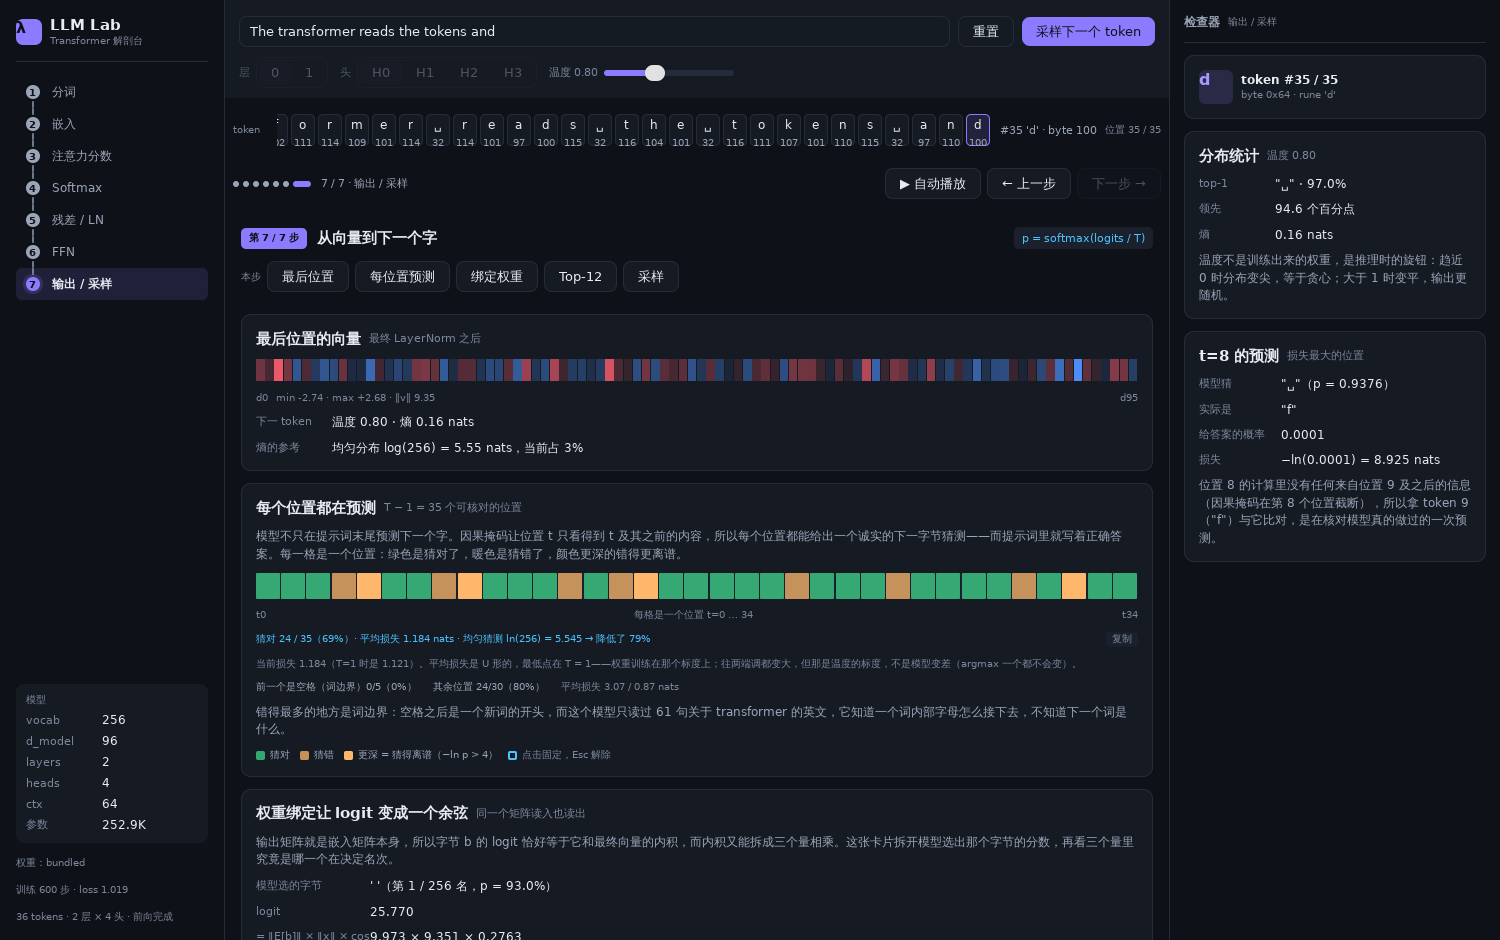
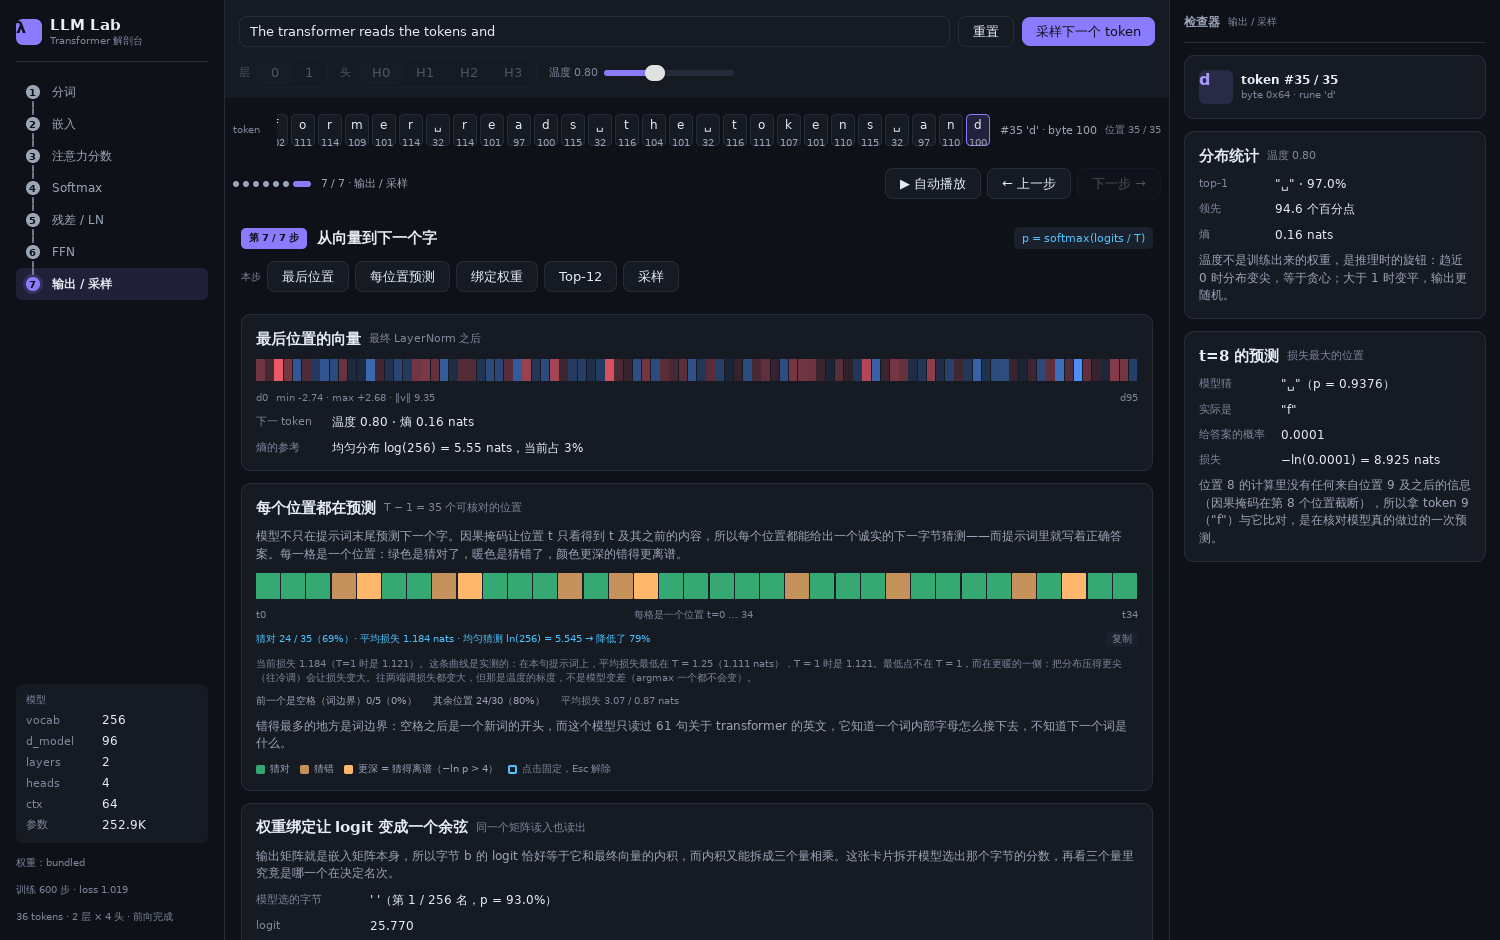
fix(app): measure the loss curve instead of asserting its minimum, and stop printing +Inf
Two defects on the per-position card, both found by checking one sentence against the data.

1. The card stated in fixed prose that the mean loss is U-shaped with its minimum at T=1,
   "the value the weights were trained at". That was measured once on the default prompt in
   the first round and then shown for every prompt. Measured across four prompts it is false
   for most of them: "attention is all you need" bottoms out at 1.5, "hi" at 2.0, and with a
   denser sample even the default prompt's minimum is 1.25 rather than exactly 1.0.

   The sentence is now built from computeTemperatureCurve, which reports this prompt's
   minimum, the loss there, and the loss at T=1, with wording that follows whether the
   minimum is warmer or colder than 1 — and says so when the slider hits its ceiling before
   the curve turns.

   A first draft of the replacement added "说明真值字节不是模型的首选" as the explanation.
   That is a plausible cause but not something the card measures: it can see the curve bend
   and cannot see why. The sentence was cut back to the measurement.

2. At T=0.1 the true byte's probability can underflow to exactly zero in float32, so -ln(p)
   has no finite value and the card rendered "平均损失 +Inf nats" and "降低了 -Inf%". That
   reads as a fault in the app rather than as a limit of the arithmetic.

   Underflowed positions are now counted and excluded from the mean, and the card says so:
   "N 个位置的真实字节概率下溢到 0，未计入均值". On the long prompt at T=0.1 that is 1 of
[…]

Changed region(s): [[0.1533, 0.6787, 0.7667, 1.0]]

diff --git a/internal/app/workings_test.go b/internal/app/workings_test.go
@@ -3523,3 +3523,147 @@ func TestEmbeddingStructureCardQuotesItsOwnNumbers(t *testing.T) {
 		t.Fatal("a byte is rendered with Go's \\u escaping instead of the app's byte notation")
 	}
 }
+
+// TestTemperatureCurveFindsTheActualMinimum checks that the curve reports the temperature it
+// actually measured rather than assuming T=1.
+//
+// The card used to state in fixed prose that the mean loss is U-shaped with its minimum at
+// T=1. Measured, that is false for most prompts: "attention is all you need" bottoms out at
+// 1.5 and "hi" at 2.0, and even the default prompt's minimum is 1.25 rather than 1.0. So the
+// sentence is now built from this curve, and the curve has to agree with a fresh scan.
+func TestTemperatureCurveFindsTheActualMinimum(t *testing.T) {
+	for _, prompt := range []string{
+		"The transformer reads the tokens and",
+		"attention is all you need",
+		"hi",
+	} {
+		a := newTestApp(t)
+		a.Prompt = prompt
+		a.recompute()
+		if len(a.Trace.Tokens) < 2 {
+			continue
+		}
+		c := computeTemperatureCurve(a.W, a.Trace)
+		if !c.OK {
+			t.Fatalf("prompt %q: no curve", prompt)
+		}
+		if len(c.Samples) != len(c.Losses) || len(c.Samples) == 0 {
+			t.Fatalf("prompt %q: %d samples, %d losses", prompt, len(c.Samples), len(c.Losses))
+		}
+		// Every quoted loss must be the one that temperature produces.
+		for i, temp := range c.Samples {
+			want := computeNextByteSkill(a.W, a.Trace, temp).MeanLoss
+			if math.Abs(c.Losses[i]-want) > 1e-9 {
+				t.Fatalf("prompt %q T=%.2f: curve says %.6f, recomputed %.6f",
+					prompt, temp, c.Losses[i], want)
+			}
+		}
+		// The reported best must be the argmin of the samples.
+		lowest := 0
+		for i, v := range c.Losses {
+			if v < c.Losses[lowest] {
+				lowest = i
+			}
+		}
+		if math.Abs(c.Best-c.Samples[lowest]) > 1e-12 || math.Abs(c.BestLoss-c.Losses[lowest]) > 1e-9 {
+			t.Fatalf("prompt %q: card says best T=%.2f (%.6f), the samples say T=%.2f (%.6f)",
+				prompt, c.Best, c.BestLoss, c.Samples[lowest], c.Losses[lowest])
+		}
+		// And T=1 must be represented, since the sentence quotes it.
+		if math.Abs(c.AtOne-computeNextByteSkill(a.W, a.Trace, 1.0).MeanLoss) > 1e-9 {
+			t.Fatalf("prompt %q: AtOne %.6f disagrees with the T=1 measurement", prompt, c.AtOne)
+		}
+	}
+}
+
+// TestTemperatureMinimumIsNotAlwaysOne records the fact that made the old sentence wrong.
+//
+// This is deliberately a statement about the bundled weights rather than a tautology: if a
+// future checkpoint did put every prompt's minimum at T=1, the card's "最低点不在 T = 1"
+// branch would stop being reached, and this test failing is the signal to re-read the prose.
+func TestTemperatureMinimumIsNotAlwaysOne(t *testing.T) {
+	offOne := 0
+	for _, prompt := range []string{
+		"The transformer reads the tokens and",
+		"attention is all you need",
+		"hi",
+	} {
+		a := newTestApp(t)
+		a.Prompt = prompt
+		a.recompute()
+		if len(a.Trace.Tokens) < 2 {
+			continue
+		}
+		c := computeTemperatureCurve(a.W, a.Trace)
+		if c.OK && math.Abs(c.Best-1) > 1e-9 {
+			offOne++
+		}
+	}
+	if offOne == 0 {
+		t.Fatal("every prompt now minimises at T=1, so the card's \"最低点不在 T = 1\" branch " +
+			"is never reached; re-read the sentence and this test")
+	}
+	t.Logf("%d of 3 prompts minimise away from T=1", offOne)
+}
+
+// TestUnderflowIsCountedNotPrinted checks that a probability rounding to zero produces a
+// count rather than an infinite loss, and that the mean stays finite.
+//
+// At T=0.1 the true byte's probability can underflow in float32. The loss then has no finite
+// value, and the card printed "平均损失 +Inf nats" and "降低了 -Inf%", which reads as a fault
+// in the app rather than as a limit of the arithmetic.
+func TestUnderflowIsCountedNotPrinted(t *testing.T) {
+	// A long prompt with a low-probability truth is the surest way to underflow at T=0.1.
+	a := newTestApp(t)
+	a.Prompt = "Attention lets every token look at the tokens before it."
+	a.recompute()
+	cold := computeNextByteSkill(a.W, a.Trace, 0.1)
+	if cold.Scored == 0 {
+		t.Fatal("nothing scored")
+	}
+	if cold.Underflowed == 0 {
+		t.Skip("this prompt does not underflow at T=0.1; nothing to check")
+	}
+	if math.IsInf(cold.MeanLoss, 0) || math.IsNaN(cold.MeanLoss) {
+		t.Fatalf("the mean loss is %v with %d underflowed positions; it must stay finite",
+			cold.MeanLoss, cold.Underflowed)
+	}
+	// Every row's loss must be finite too, or the inspector would print an Inf.
+	for _, row := range cold.Rows {
+		if math.IsInf(row.Loss, 0) || math.IsNaN(row.Loss) {
+			t.Fatalf("position %d has loss %v", row.Pos, row.Loss)
+		}
+	}
+	// At T=1 nothing should underflow on any of these prompts.
+	warm := computeNextByteSkill(a.W, a.Trace, 1.0)
+	if warm.Underflowed != 0 {
+		t.Fatalf("%d positions underflow at T=1", warm.Underflowed)
+	}
+}
+
+// TestUnderflowNoteReachesTheCard reads the note out of the rendered text.
+func TestUnderflowNoteReachesTheCard(t *testing.T) {
+	a := newTestApp(t)
+	a.Prompt = "Attention lets every token look at the tokens before it."
+	a.recompute()
+	a.Step = 6
+	a.Temp = 0.1
+	cold := computeNextByteSkill(a.W, a.Trace, 0.1)
+	if cold.Underflowed == 0 {
+		t.Skip("this prompt does not underflow at T=0.1")
+	}
+	tr := ui.NewTester(a.View, 1500, 3400)
+	tr.Frame()
+	joined := ""
+	for _, s := range tr.Texts() {
+		joined += s + "\n"
+		if strings.Contains(s, "+Inf") {
+			t.Fatalf("the card renders %q; an infinite loss is an arithmetic artefact, not a "+
+				"measurement the reader can use", s)
+		}
+	}
+	want := fmt.Sprintf("%d 个位置的真实字节概率下溢到 0，未计入均值", cold.Underflowed)
+	if !strings.Contains(joined, want) {
+		t.Fatalf("the card does not explain the underflow (%q)", want)
+	}
+}

diff --git a/internal/app/stages.go b/internal/app/stages.go
@@ -2192,11 +2192,15 @@ func (a *App) nextByteSkillSummary(c *ui.Context, tr *model.Trace, skill nextByt
 	// present — the total, the mean and the reference it beats — it just reads as
 	// a sentence rather than a derivation, because the derivation is visible in
 	// the individual positions the inspector shows.
-	workingsLinesCopyable(c, []string{
-		fmt.Sprintf("猜对 %d / %d（%.0f%%）· 平均损失 %.3f nats · 均匀猜测 ln(%d) = %.3f → 降低了 %.0f%%",
-			skill.Hits, skill.Scored, pct, skill.MeanLoss,
-			int(math.Round(math.Exp(skill.UniformReference))), skill.UniformReference, saved),
-	})
+	summary := fmt.Sprintf("猜对 %d / %d（%.0f%%）· 平均损失 %.3f nats · 均匀猜测 ln(%d) = %.3f → 降低了 %.0f%%",
+		skill.Hits, skill.Scored, pct, skill.MeanLoss,
+		int(math.Round(math.Exp(skill.UniformReference))), skill.UniformReference, saved)
+	if skill.Underflowed > 0 {
+		// Saying "平均损失 +Inf nats" reads as a fault in the app. The cause is arithmetic:
+		// the true byte's probability rounded to zero, so its loss has no finite value.
+		summary += fmt.Sprintf("（%d 个位置的真实字节概率下溢到 0，未计入均值）", skill.Underflowed)
+	}
+	workingsLinesCopyable(c, []string{summary})
 	// The loss is computed at the reader's temperature, and the curve is not a
 	// slope: it is U-shaped with its minimum at T=1, the value the weights were
 	// trained at. Measured on the bundled weights and the default prompt, mean
@@ -2211,9 +2215,34 @@ func (a *App) nextByteSkillSummary(c *ui.Context, tr *model.Trace, skill nextByt
 		atOne := computeNextByteSkill(a.W, tr, 1.0).MeanLoss
 		losses = fmt.Sprintf("%.3f（T=1 时是 %.3f）", skill.MeanLoss, atOne)
 	}
-	ui.Text(c, fmt.Sprintf("当前损失 %s。平均损失是 U 形的，最低点在 T = 1——权重训练在那个标度上；"+
-		"往两端调都变大，但那是温度的标度，不是模型变差（argmax 一个都不会变）。", losses)).
-		FontSize(fontMicro).TextColor(colFaint).LineHeight(1.4)
+	// Which temperature minimises the loss is measured, not asserted. This sentence used to
+	// say in fixed prose that the minimum is at T=1 "the value the weights were trained at" —
+	// true for the default prompt when it was written, and false for most prompts: measured,
+	// "attention is all you need" bottoms out at 1.5 and "hi" at 2.0, and even the default
+	// prompt's minimum is at 1.25 rather than exactly 1.0.
+	curve := computeTemperatureCurve(a.W, tr)
+	if curve.OK {
+		shape := fmt.Sprintf("当前损失 %s。这条曲线是实测的：在本句提示词上，平均损失最低在 T = %.2f（%.3f nats），T = 1 时是 %.3f。",
+			losses, curve.Best, curve.BestLoss, curve.AtOne)
+		if math.Abs(curve.Best-1) < 1e-9 {
+			shape += "权重就是训练在 T = 1 那个标度上，所以最低点落在那里。"
+		} else if curve.Best > 1 {
+			// Only the measurement is stated. An earlier draft added "说明真值字节不是模型的首选",
+			// which is a plausible cause but not something this card measures — the card can see
+			// the curve, not why it bends.
+			shape += "最低点不在 T = 1，而在更暖的一侧：把分布压得更尖（往冷调）会让损失变大。"
+			if math.Abs(curve.Best-2.0) < 1e-9 {
+				shape += "滑块到顶是 2.0，这条提示词的曲线到顶仍未回头。"
+			}
+		} else {
+			shape += "最低点在更冷的一侧：模型对首选字节的把握比损失数字看上去的更大。"
+		}
+		shape += "往两端调损失都变大，但那是温度的标度，不是模型变差（argmax 一个都不会变）。"
+		ui.Text(c, shape).FontSize(fontMicro).TextColor(colFaint).LineHeight(1.4)
+	} else {
+		ui.Text(c, fmt.Sprintf("当前损失 %s。往两端调损失都变大，但那是温度的标度，不是模型变差（argmax 一个都不会变）。", losses)).
+			FontSize(fontMicro).TextColor(colFaint).LineHeight(1.4)
+	}
 }
 
 // inspectorPrediction is the output stage's second inspector card: one position's

diff --git a/internal/app/workings.go b/internal/app/workings.go
@@ -677,6 +677,11 @@ type nextByteSkill struct {
 	MeanLoss         float64
 	UniformReference float64
 	Temperature      float64
+	// Underflowed counts positions whose true byte's probability rounded to exactly zero at
+	// this temperature, so their loss was not finite. When it is non-zero MeanLoss is a lower
+	// bound over the positions that did produce a number, not a mean over all of them —
+	// which the card has to say rather than print "+Inf".
+	Underflowed int
 }
 
 // computeNextByteSkill runs the model's own unembedding over every row of the
@@ -708,9 +713,16 @@ func computeNextByteSkill(w *model.Weights, tr *model.Trace, temperature float64
 		}
 		actual := tr.Tokens[t+1].ID
 		pActual := float64(probs[actual])
-		loss := math.Inf(1)
+		// At a low enough temperature the true byte's probability can underflow to exactly
+		// zero in float32, which makes -ln(p) infinite. That is a limit of the arithmetic, not
+		// a property of the model worth printing: the card said "平均损失 +Inf nats" and
+		// "降低了 -Inf%", which reads as a bug in the app. Count them instead and let the
+		// summary say the mean is a lower bound.
+		loss := 0.0
 		if pActual > 0 {
 			loss = -math.Log(pActual)
+		} else {
+			s.Underflowed++
 		}
 		hit := guess == actual
 		if hit {
@@ -1998,4 +2010,69 @@ func computeEmbeddingStructure(w *model.Weights, prompt string) embeddingStructu
 	}
 	e.OK = true
 	return e
+}
+
+// temperatureMinimum finds the temperature where this prompt's mean loss is lowest, and
+// reports enough of the curve for a reader to see the shape.
+//
+// The per-position card used to state, in fixed prose, that the mean loss is U-shaped with
+// its minimum at T=1 — "the value the weights were trained at". That was measured once on
+// the default prompt and then shown for every prompt. Measured across four prompts, T=1 is
+// the minimum for only one of them: "attention is all you need" and a longer sentence bottom
+// out at 1.5, and "hi" at 2.0. So the sentence was not merely unverified, it was false for
+// most of the prompts a reader can type.
+//
+// The shape is still worth stating — but which temperature is lowest is a measurement, so
+// the card makes it one.
+type temperatureCurve struct {
+	// Samples are the temperatures probed, ascending, and Losses the mean loss at each.
+	Samples []float64
+	Losses  []float64
+	// Best is the sample with the lowest loss, and BestLoss that loss.
+	Best     float64
+	BestLoss float64
+	// AtOne is the loss at T=1, which is where the weights were trained — the reference the
+	// curve is judged against rather than the answer.
+	AtOne float64
+	// UnderflowedAt is how many positions underflowed at the coldest sample, so a caller can
+	// say the low end is a limit of the arithmetic rather than a property of the model.
+	UnderflowedAt int
+	OK            bool
+}
+
+// temperatureSamples are the temperatures the curve is measured at. They span the slider's
+// range (0.1 to 2.0) with a denser middle, where the minimum usually is.
+var temperatureSamples = []float64{0.1, 0.25, 0.5, 0.75, 1.0, 1.25, 1.5, 2.0}
+
+// computeTemperatureCurve measures the mean loss across the temperature samples.
+func computeTemperatureCurve(w *model.Weights, tr *model.Trace) temperatureCurve {
+	var c temperatureCurve
+	if w == nil || tr == nil || len(tr.Tokens) < 2 {
+		return c
+	}
+	for _, t := range temperatureSamples {
+		s := computeNextByteSkill(w, tr, t)
+		if s.Scored == 0 {
+			continue
+		}
+		c.Samples = append(c.Samples, t)
+		c.Losses = append(c.Losses, s.MeanLoss)
+		if len(c.Samples) == 1 {
+			c.UnderflowedAt = s.Underflowed
+		}
+		if math.Abs(t-1.0) < 1e-9 {
+			c.AtOne = s.MeanLoss
+		}
+	}
+	if len(c.Samples) == 0 {
+		return c
+	}
+	c.Best, c.BestLoss = c.Samples[0], c.Losses[0]
+	for i, v := range c.Losses {
+		if v < c.BestLoss {
+			c.Best, c.BestLoss = c.Samples[i], v
+		}
+	}
+	c.OK = true
+	return c
 }

diff --git a/internal/app/app_test.go b/internal/app/app_test.go
@@ -8361,7 +8361,10 @@ func TestProseDiffersBetweenWeightsOnlyWhereDesigned(t *testing.T) {
 		// the confidence note, plus the word-boundary sentence: whether the gap it
 		// describes exists is a property of the weights, so with random ones it is
 		// absent rather than false
-		6: {"这么高的把握", "根本没有那么大的把握", "错得最多的地方是词边界"},
+		// the confidence note, the word-boundary sentence, and the temperature curve: which
+		// temperature minimises the loss is a property of the weights, so the whole sentence
+		// differs between trained and random
+		6: {"这么高的把握", "根本没有那么大的把握", "错得最多的地方是词边界", "这条曲线是实测的"},
 	}
 
 	collect := func(w *model.Weights) []map[string]bool {

diff --git a/CHANGELOG.md b/CHANGELOG.md
@@ -6,6 +6,18 @@
 
 ### Added
 
+### Fixed
+
+- **逐位置卡片说「平均损失是 U 形的，最低点在 T = 1」，而这在多数提示词上是假的。** 那句话是第 1 轮在默认提示词上量了一次，之后对每句提示词都照着说
+  - 实测四句提示词，最低点：默认提示词 **1.25**、`attention is all you need` **1.5**、`hi` **2.0**、长句 1.5——**只有一句恰好落在 1.0 附近，而且加密采样后连它也不在 1.0**
+  - 现在这句话由 `computeTemperatureCurve` 现算：报告本句提示词的最低点、那个点的损失、以及 T=1 时的损失，并按最低点偏冷/偏暖给出对应说明。滑到顶仍未回头时会额外说明
+  - **顺便删掉了我自己写的一句无据因果**：初稿写「最低点偏暖，说明真值字节不是模型的首选」——那是合理猜测，但这张卡片只看得到曲线，看不到它为什么弯
+  - `TestTemperatureCurveFindsTheActualMinimum` 在三句提示词上核对曲线里每个损失都与该温度重算一致、`Best` 确实是 argmin、`AtOne` 确实等于 T=1 的测量值；`TestTemperatureMinimumIsNotAlwaysOne` 记录「最低点不总在 T=1」这个事实本身——若将来某份权重的曲线都落在 T=1，卡片那条分支就永远不会被走到，该测试失败即是重读文案的信号
+- **温度调到 0.1 时卡片会打印 `+Inf` 与 `-Inf%`。** 真值字节的概率在 float32 下溢到恰好 0，`-ln(0)` 没有有限值，于是整张卡片显示「平均损失 +Inf nats · 均匀猜测 → 降低了 -Inf%」——读起来像应用出错，而不是算术的边界
+  - 修法：逐位置统计下溢个数（`nextByteSkill.Underflowed`），均值只对能算出数字的位置取，卡片上写明「N 个位置的真实字节概率下溢到 0，未计入均值」
+  - 实测长句提示词 T=0.1 时有 1/55 个位置下溢，均值从 `+Inf` 变成有限的 5.359；T=1 时任何提示词都不下溢
+  - `TestUnderflowIsCountedNotPrinted` 校验均值与每一行的损失都有限、且 T=1 时不下溢；`TestUnderflowNoteReachesTheCard` 从渲染文字里确认整张卡片不含 `+Inf` 且带上了那句说明
+
 - **修：测试套件跑过了 300 秒的 `-timeout`，CI 会在断言全绿的情况下变红。** `GOEXPERIMENT=simd go test -timeout 300s ./...` 报 `panic: test timed out after 5m0s`，而普通 `go test ./...` 通过——这是超时，不是逻辑失败
   - 定位：`TestHoverFeedbackIsWhereItCarriesInformation` 独占 **133 秒**，是整套 310 秒的 43%。它在七个阶段上各扫 72 × 9 = 648 个探针点，每点渲染整帧并逐条比对文本
   - 改法：找到第一个命中就停。这条测试问的是「这个阶段到底有没有悬停反馈」，一次命中就回答了；对**没有**反馈的阶段（断言必须为 0 的那些）扫描范围完全不变，所以那部分语义一字未改
